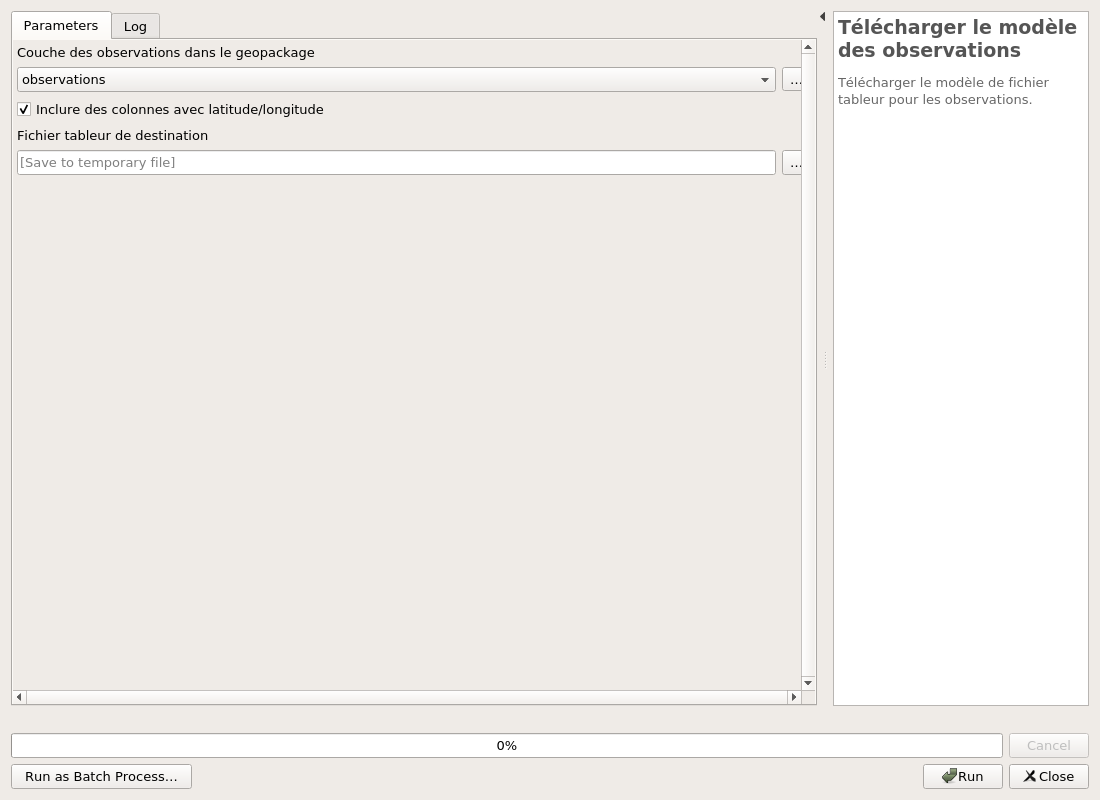
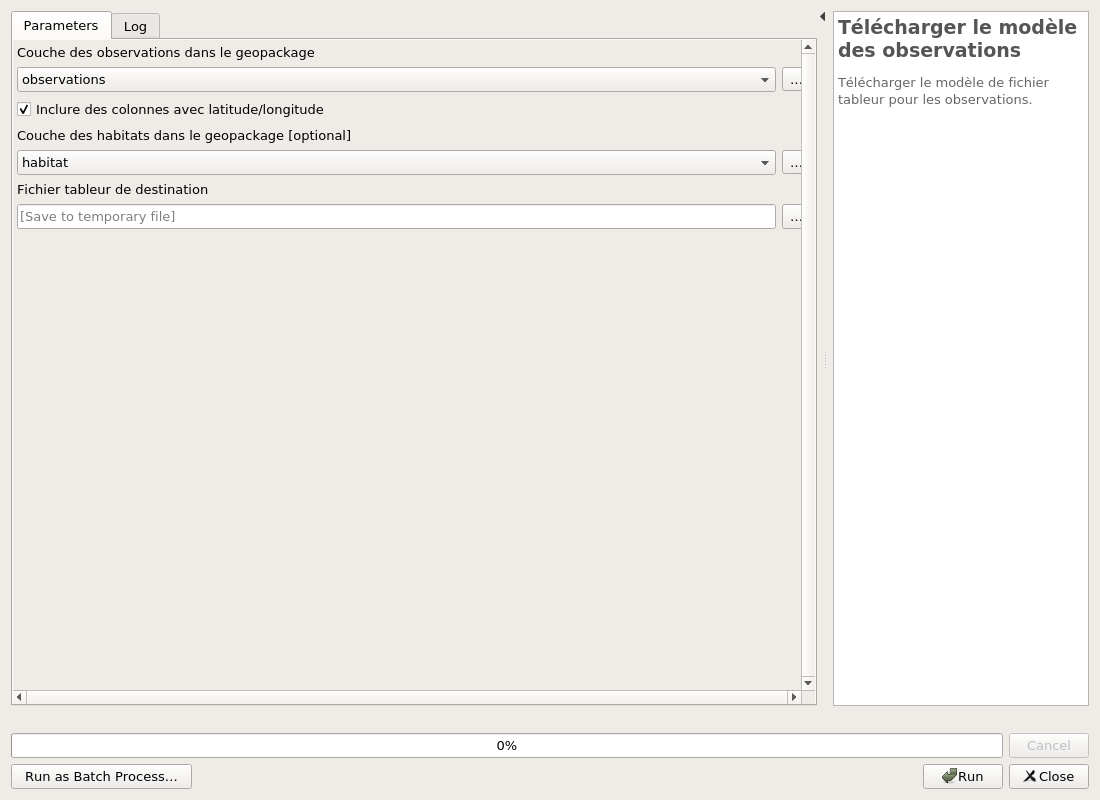
Update the processing documentation

Changed region(s): [[0.0, 0.1562, 0.3091, 0.2812]]

diff --git a/docs/processing/README.md b/docs/processing/README.md
@@ -41,6 +41,34 @@ OUTPUT|output|VectorLayer||
 ***
 
 
+### Calcul unicité habitat/faciès
+
+Vérification des données des habitats.
+Les champs nom et faciès doivent être unique par objet géographique.
+
+
+![algo_id](./mercicor-calcul_unicity_habitat.png)
+
+#### Parameters
+
+| ID | Description | Type | Info | Required | Advanced | Option |
+|:-:|:-:|:-:|:-:|:-:|:-:|:-:|
+INPUT|Couche habitat|VectorLayer||✓||Default: habitat <br> Type: TypeVectorPolygon <br>|
+OUTPUT|Couche des habitat/faciès à unifier|FeatureSink||||Type: TypeVectorPoint <br>|
+
+
+#### Outputs
+
+| ID | Description | Type | Info |
+|:-:|:-:|:-:|:-:|
+OUTPUT|Couche des habitat/faciès à unifier|VectorLayer||
+NUMBER_OF_UNIQUE|Nombre de couple habitat/faciès unique|Number||
+NUMBER_OF_NON_UNIQUE|Nombre de couple habitat/faciès non unique|Number||
+
+
+***
+
+
 ## Administration
 
 
@@ -118,6 +146,7 @@ Télécharger le modèle de fichier tableur pour les observations.
 |:-:|:-:|:-:|:-:|:-:|:-:|:-:|
 INPUT_LAYER|Couche des observations dans le geopackage|VectorLayer|Couche des observations dans le geopackage|✓||Default: observations <br> Type: TypeVectorPoint <br>|
 INCLUDE_X_Y|Inclure des colonnes avec latitude/longitude|Boolean|Inclure des colonnes avec latitude/longitude|✓||Default: True <br> |
+HABITAT_LAYER|Couche des habitats dans le geopackage|VectorLayer|Couche des habitats dans le geopackage|||Default: habitat <br> Type: TypeVectorPolygon <br>|
 DESTINATION_FILE|Fichier tableur de destination|FileDestination|Fichier tableur de destination|✓|||
 
 
@@ -136,7 +165,10 @@ DESTINATION_FILE|Fichier tableur de destination|File||
 
 ### Import données habitat
 
-Import des données des habitats. Le champ du faciès doit être correctement formaté.
+Import des données des habitats.
+Le champ du faciès doit être correctement formaté.
+Un style pour les habitats sera ajouté.
+
 
 ![algo_id](./mercicor-import_donnees_habitat.png)
 
